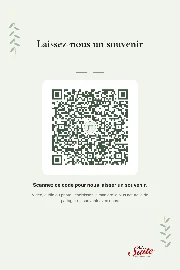
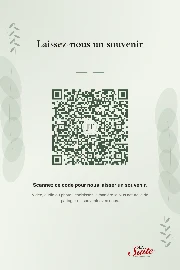
La Suite: transparent QR artwork, richer backgrounds and matched monogram typography

diff --git a/la-suite/app.js b/la-suite/app.js
@@ -322,7 +322,7 @@ function qrFontFamily(key){
  return"Cormorant Garamond";
 }
 function qrFontWeight(key){
- return ["romantic","signature"].includes(key)?"400":["classic","editorial","refined"].includes(key)?"600":"700";
+ return ["romantic","signature","editorial"].includes(key)?"400":key==="classic"?"600":"700";
 }
 function collectQrCustomization(c){
  return {
@@ -373,30 +373,98 @@ function makeQrCanvas(url,o){
  const code=new QRCode(holder,{text:url,width:512,height:512,colorDark:qrInk(o.color),colorLight:"#ffffff",correctLevel:QRCode.CorrectLevel.H});
  const model=code._oQRCode,n=model.getModuleCount(),cell=12,quiet=4;
  const canvas=document.createElement("canvas");canvas.width=canvas.height=(n+quiet*2)*cell;
- const ctx=canvas.getContext("2d");ctx.fillStyle="#ffffff";ctx.fillRect(0,0,canvas.width,canvas.height);
+ const ctx=canvas.getContext("2d"); // Light modules and the four-module quiet zone remain transparent.
  ctx.fillStyle=qrInk(o.color);
  for(let y=0;y<n;y++)for(let x=0;x<n;x++)if(model.isDark(y,x))ctx.fillRect((x+quiet)*cell,(y+quiet)*cell,cell,cell);
  return canvas;
 }
-function drawQrMonogram(ctx,o,cx,cy,size){
- const d=size*.17,r=d/2;
- ctx.save();ctx.translate(cx,cy);
- ctx.fillStyle="#fff";ctx.beginPath();ctx.arc(0,0,r,0,Math.PI*2);ctx.fill();
- ctx.fillStyle=qrThemes[o.style].background;
- ctx.beginPath();ctx.arc(0,0,r*.80,0,Math.PI*2);ctx.fill();
- ctx.strokeStyle=o.color;ctx.lineWidth=Math.max(1,size*.0018);
- const badge=qrThemes[o.style].badge;
+function drawQrMonogram(ctx,o,cx,cy,size,background){
+ const d=size*.18,r=d/2,theme=qrThemes[o.style];
+ ctx.save();
+ // Reveal the exact artwork beneath the code, including gradients: no white badge.
+ ctx.beginPath();ctx.arc(cx,cy,r,0,Math.PI*2);ctx.clip();
+ ctx.drawImage(background,cx-r,cy-r,d,d,cx-r,cy-r,d,d);
+ ctx.restore();ctx.save();ctx.translate(cx,cy);
+ ctx.strokeStyle=qrInk(o.color);ctx.lineWidth=Math.max(.8,size*.0013);ctx.globalAlpha=.45;
+ const badge=theme.badge;
  if(badge!=="plain"){
   ctx.beginPath();
-  if(badge==="diamond"){ctx.moveTo(0,-r*.8);ctx.lineTo(r*.8,0);ctx.lineTo(0,r*.8);ctx.lineTo(-r*.8,0);ctx.closePath()}
-  else ctx.ellipse(0,0,r*.78,r*(badge==="oval"?.60:.78),0,0,Math.PI*2);
+  if(badge==="diamond"){ctx.moveTo(0,-r*.84);ctx.lineTo(r*.84,0);ctx.lineTo(0,r*.84);ctx.lineTo(-r*.84,0);ctx.closePath()}
+  else ctx.ellipse(0,0,r*.83,r*(badge==="oval"?.72:.83),0,0,Math.PI*2);
   ctx.stroke();
-  if(badge==="double"){ctx.beginPath();ctx.arc(0,0,r*.68,0,Math.PI*2);ctx.stroke()}
+  if(badge==="double"){ctx.globalAlpha=.2;ctx.beginPath();ctx.arc(0,0,r*.93,0,Math.PI*2);ctx.stroke()}
  }
+ ctx.globalAlpha=1;
  const letters=Array.from(o.initials.trim().toUpperCase()).slice(0,4).join("");
- ctx.fillStyle=qrInk(o.color);ctx.textAlign="center";ctx.textBaseline="middle";
- ctx.font=(qrThemes[o.style].badge==="plain"?"500 ":"600 ")+Math.round(d*(letters.length>2?.30:.40))+'px '+(qrThemes[o.style].badge==="plain"?'Inter, sans-serif':'"Cormorant Garamond", Georgia, serif');
- ctx.fillText(letters,0,d*.025,d*.66);
+ const family=qrFontFamily(o.font),weight=qrFontWeight(o.font);
+ const maxW=d*(badge==="diamond"?.52:.66),maxH=d*(badge==="diamond"?.43:.48);
+ ctx.textAlign="left";ctx.textBaseline="alphabetic";
+ let fontSize=d*.5,metrics;
+ do{
+  ctx.font=weight+" "+fontSize+'px "'+family+'", serif';
+  metrics=ctx.measureText(letters);
+  if(Math.max(metrics.width,metrics.actualBoundingBoxLeft+metrics.actualBoundingBoxRight)<=maxW&&metrics.actualBoundingBoxAscent+metrics.actualBoundingBoxDescent<=maxH)break;
+  fontSize--;
+ }while(fontSize>12);
+ ctx.fillStyle=qrInk(o.color);ctx.textAlign="left";ctx.textBaseline="alphabetic";
+ ctx.fillText(letters,(metrics.actualBoundingBoxLeft-metrics.actualBoundingBoxRight)/2,(metrics.actualBoundingBoxAscent-metrics.actualBoundingBoxDescent)/2);
+ ctx.restore();
+}
+function drawQrBackdrop(ctx,o,W,H){
+ const theme=qrThemes[o.style],style=o.style;
+ ctx.fillStyle=theme.background;ctx.fillRect(0,0,W,H);
+ if(style==="minimal")return;
+ const wash=(x,y,r,alpha)=>{
+  const g=ctx.createRadialGradient(x,y,0,x,y,r);
+  g.addColorStop(0,o.color);g.addColorStop(1,theme.background);
+  ctx.save();ctx.globalAlpha=alpha;ctx.fillStyle=g;ctx.fillRect(0,0,W,H);ctx.restore();
+ };
+ const soft=["romantic","pressed","botanical","olive","signature","pearl","celestial"].includes(style);
+ wash(0,0,W*.9,soft?.14:.07);wash(W,H,W,soft?.12:.06);
+ if(style==="pearl")wash(W*.8,H*.35,W*.7,.07);
+ ctx.save();ctx.strokeStyle=o.color;ctx.fillStyle=o.color;
+ // Fine paper texture lives in the margins, away from the quiet zone and text.
+ ctx.globalAlpha=.045;
+ for(let i=0;i<1100;i++){
+  const x=(i*83.37)%W,y=(i*173.29)%H;
+  if(x<125||x>W-125)ctx.fillRect(x,y,1.1,1.1);
+ }
+ ctx.globalAlpha=.14;ctx.lineWidth=1.3;
+ if(["chic","palace","retro","editorial"].includes(style)){
+  for(let i=0;i<5;i++){
+   const inset=24+i*7;ctx.beginPath();ctx.moveTo(inset,150);ctx.lineTo(inset,inset);ctx.lineTo(150,inset);ctx.stroke();
+   ctx.beginPath();ctx.moveTo(W-inset,H-150);ctx.lineTo(W-inset,H-inset);ctx.lineTo(W-150,H-inset);ctx.stroke();
+  }
+ }
+ if(["romantic","pressed","botanical","olive"].includes(style)){
+  for(const flip of [false,true]){
+   ctx.save();if(flip){ctx.translate(W,H);ctx.rotate(Math.PI)}
+   ctx.globalAlpha=.09;
+   for(let i=0;i<5;i++){
+    ctx.beginPath();ctx.ellipse(55+i*9,510+i*135,70,150,-.4+i*.15,0,Math.PI*2);ctx.fill();
+   }
+   ctx.globalAlpha=.24;ctx.beginPath();ctx.moveTo(36,185);ctx.bezierCurveTo(135,360,18,650,83,980);ctx.stroke();
+   ctx.restore();
+  }
+ }
+ if(style==="celestial"){
+  ctx.globalAlpha=.16;
+  for(const [x,y] of [[35,95],[W-35,H-95]]){ctx.beginPath();ctx.arc(x,y,145,0,Math.PI*2);ctx.stroke();ctx.beginPath();ctx.arc(x,y,165,0,Math.PI*2);ctx.stroke()}
+  ctx.globalAlpha=.38;
+  for(let i=0;i<38;i++){const x=i%2?W-35-(i*11)%80:35+(i*11)%80,y=170+(i*73)%(H-300);ctx.beginPath();ctx.arc(x,y,i%3?1.4:2.5,0,Math.PI*2);ctx.fill()}
+ }
+ if(style==="seaside"){
+  ctx.globalAlpha=.09;
+  for(let i=0;i<6;i++){ctx.beginPath();ctx.moveTo(0,H-65-i*12);ctx.bezierCurveTo(W*.3,H-190-i*8,W*.6,H+20-i*12,W,H-110-i*12);ctx.stroke()}
+ }
+ if(style==="dolce"){
+  ctx.globalAlpha=.18;
+  for(let y=320;y<H-320;y+=85)for(const x of [50,W-50]){ctx.beginPath();ctx.moveTo(x,y-10);ctx.lineTo(x+10,y);ctx.lineTo(x,y+10);ctx.lineTo(x-10,y);ctx.closePath();ctx.stroke()}
+ }
+ if(style==="boho"){
+  ctx.globalAlpha=.16;
+  for(let i=0;i<5;i++){ctx.beginPath();ctx.ellipse(-10,H-180,160+i*14,300+i*14,.35,0,Math.PI*2);ctx.stroke()}
+ }
  ctx.restore();
 }
 function drawQrDecor(ctx,o,W,H){
@@ -539,26 +607,26 @@ async function buildPrintCardCanvas(c,url){
  if(document.fonts?.load)try{await Promise.all([document.fonts.load(qrFontWeight(o.font)+' 72px "'+qrFontFamily(o.font)+'"'),document.fonts.load('600 32px "Cormorant Garamond"'),document.fonts.load('400 25px Inter'),document.fonts.load('700 32px Inter')])}catch(e){}
  const canvas=document.createElement("canvas"),ctx=canvas.getContext("2d");
  const W=1181,H=1772;canvas.width=W;canvas.height=H;
- const bg=qrThemes[o.style].background;
- ctx.fillStyle=bg;ctx.fillRect(0,0,W,H);
+ drawQrBackdrop(ctx,o,W,H);
  drawQrDecor(ctx,o,W,H);
  ctx.textAlign="center";ctx.textBaseline="alphabetic";
  const ff=qrFontFamily(o.font);
  let titleSize=["romantic","signature"].includes(o.font)?86:o.font==="contemporary"?64:o.font==="refined"?66:72;
  ctx.fillStyle="#201c1a";
- titleSize=fitPrintFont(ctx,o.title,880,3,titleSize,'"'+ff+'", serif',qrFontWeight(o.font));
- const titleLines=wrapCanvasLines(ctx,o.title,880,3),titleLineHeight=titleSize*1.12;
+ const titleWidth=o.style==="arch"?660:880;
+ titleSize=fitPrintFont(ctx,o.title,titleWidth,3,titleSize,'"'+ff+'", serif',qrFontWeight(o.font));
+ const titleLines=wrapCanvasLines(ctx,o.title,titleWidth,3),titleLineHeight=titleSize*1.12;
  const titleY=310-(titleLines.length-1)*titleLineHeight/2;
- drawWrappedCenteredText(ctx,o.title,W/2,titleY,880,titleLineHeight,3);
+ drawWrappedCenteredText(ctx,o.title,W/2,titleY,titleWidth,titleLineHeight,3);
  drawQrDivider(ctx,o,W/2,475);
  const qsize=570,qx=Math.round((W-qsize)/2),qy=550;
- ctx.fillStyle="#ffffff";
- ctx.beginPath();ctx.roundRect(qx-28,qy-28,qsize+56,qsize+56,34);ctx.fill();
+ const background=document.createElement("canvas");background.width=W;background.height=H;
+ background.getContext("2d").drawImage(canvas,0,0);
  ctx.imageSmoothingEnabled=false;
  ctx.drawImage(qr,qx,qy,qsize,qsize);
  ctx.imageSmoothingEnabled=true;
 
- if(o.showInitials)drawQrMonogram(ctx,o,W/2,qy+qsize/2,qsize);
+ if(o.showInitials)drawQrMonogram(ctx,o,W/2,qy+qsize/2,qsize,background);
 
  let textY=qy+qsize+105;
  ctx.fillStyle="#262220";fitPrintFont(ctx,o.note,820,3,32,"Inter, Arial, sans-serif","700");
@@ -676,7 +744,7 @@ function ownerShell(c,url,count){
      <label>Ambiance de la carte</label>
      <input id="qr-style" type="hidden" value="${esc(o.style)}">
      <div class="qr-style-choices qr-theme-gallery" role="group" aria-label="18 ambiances de carte">
-      ${Object.entries(qrThemes).map(([key,theme])=>`<button class="qr-style-choice ${o.style===key?"is-selected":""}" data-qr-style="${key}" type="button" aria-pressed="${o.style===key}"><img class="qr-theme-thumbnail" src="assets/themes/${key}.webp?v=20260927-collection1" alt="" width="180" height="270" loading="lazy"><span><strong>${theme.name}</strong><small>${theme.detail}</small></span></button>`).join("")}
+      ${Object.entries(qrThemes).map(([key,theme])=>`<button class="qr-style-choice ${o.style===key?"is-selected":""}" data-qr-style="${key}" type="button" aria-pressed="${o.style===key}"><img class="qr-theme-thumbnail" src="assets/themes/${key}.webp?v=20260928-integrated1" alt="" width="180" height="270" loading="lazy"><span><strong>${theme.name}</strong><small>${theme.detail}</small></span></button>`).join("")}
      </div>
     </div>
 

diff --git a/la-suite/dashboard.html b/la-suite/dashboard.html
@@ -6,7 +6,7 @@
 <link rel="preconnect" href="https://fonts.googleapis.com"><link rel="preconnect" href="https://fonts.gstatic.com" crossorigin>
 <link href="https://fonts.googleapis.com/css2?family=Cormorant+Garamond:wght@500;600;700&family=DM+Serif+Display&family=Great+Vibes&family=Inter:wght@400;500;600;700&family=Libre+Baskerville:wght@400;700&family=Montserrat:wght@500;600;700&family=Parisienne&family=Playfair+Display:wght@500;600;700&display=swap" rel="stylesheet">
 <link rel="stylesheet" href="https://cdnjs.cloudflare.com/ajax/libs/font-awesome/6.5.0/css/all.min.css" crossorigin="anonymous">
-<link rel="stylesheet" href="styles.css?v=20260927-collection1">
+<link rel="stylesheet" href="styles.css?v=20260928-integrated1">
 </head>
 <body class="suite-shell-page">
 <header class="forge-style-header">
@@ -59,5 +59,5 @@
 <script src="https://cdn.jsdelivr.net/npm/qrcodejs@1.0.0/qrcode.min.js"></script>
 <script src="https://cdn.jsdelivr.net/npm/@supabase/supabase-js@2"></script>
 <script src="supabase-config.js"></script>
-<script src="app.js?v=20260927-collection1"></script>
+<script src="app.js?v=20260928-integrated1"></script>
 </body></html>
